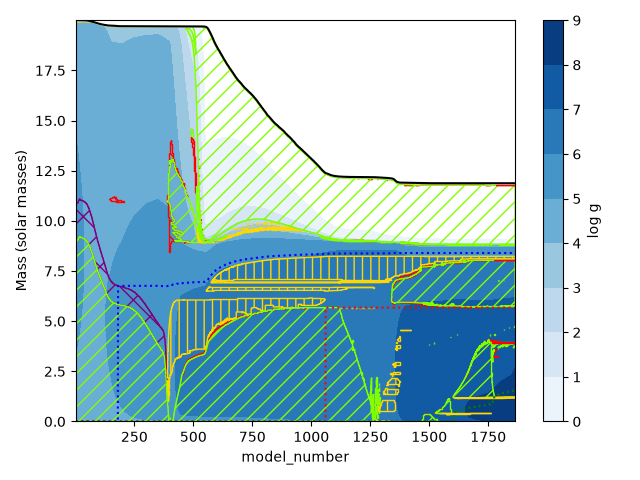
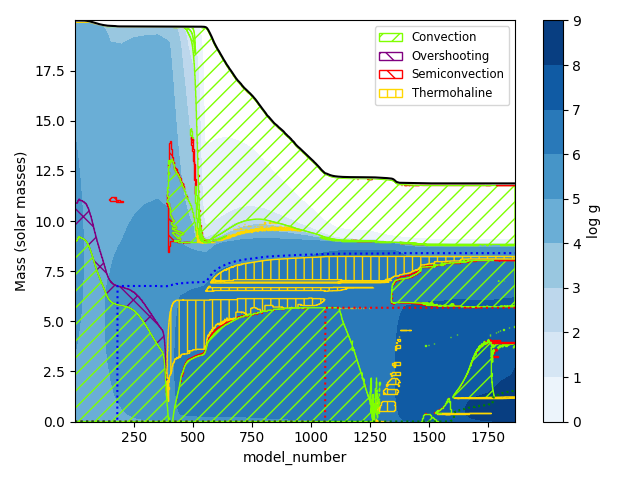
this seems to work

diff --git a/mkipp2/example.py b/mkipp2/example.py
@@ -10,7 +10,8 @@ from matplotlib.patches import PathPatch
 mkipp.kipp_plot(mkipp.KippArgs())
 
 # specify xrange and filename
-mkipp.kipp_plot(mkipp.KippArgs(save_filename="Kippenhahn2.png", xlims=[300, 600]))
+mkipp.kipp_plot(mkipp.KippArgs(xlims=[300, 600]),
+                save_filename="Kippenhahn2.png")
 
 # plot of Helium abundance against time, independent decoration
 fig, axis = plt.subplots()
@@ -25,9 +26,8 @@ kipp_plot = mkipp.kipp_plot(mkipp.KippArgs(xaxis="star_age",
                                            time_units="Myr",
                                            identifier="y",
                                            log10_on_data=False,
-                                           levels=np.arange(0.0, 1.001, 0.01),
-                                           decorate_plot=False,
-                                           save_file=False), axis=axis)
+                                           levels=np.arange(0.0, 1.001, 0.01)),
+                            axis=axis, decorate_plot=False, save_file=False)
 cbar = plt.colorbar(kipp_plot.contour_plot, pad=0.05)
 cbar.set_label("Helium abundance")
 axis.set_xlabel("Time (Myr)")
@@ -44,9 +44,8 @@ history = mesa_data.MesaData("LOGS/history.data", read_data_cols=["star_age"])
 max_age = max(history.get("star_age"))
 kipp_plot = mkipp.kipp_plot(mkipp.KippArgs(xaxis="star_age",
                                            time_units="yr",
-                                           function_on_xaxis=lambda x: np.log10(max_age+0.01 - x),
-                                           decorate_plot=False,
-                                           save_file=False), axis=axis)
+                                           function_on_xaxis=lambda x: np.log10(max_age+0.01 - x)),
+                            decorate_plot=False, save_file=False, axis=axis)
 cbar = plt.colorbar(kipp_plot.contour_plot,pad=0.05)
 cbar.set_label("log |eps_nuc|")
 axis.set_xlabel("log (tf-t) [yrs]")
@@ -67,9 +66,8 @@ def g_extractor(identifier, log10_on_data, prof, return_data_columns=False):
         return np.log10(data)
     return data
 
-kipp_plot = mkipp.kipp_plot(mkipp.KippArgs(extractor=g_extractor,
-                                           decorate_plot=False,
-                                           save_file=False), axis=axis)
+kipp_plot = mkipp.kipp_plot(mkipp.KippArgs(extractor=g_extractor),
+                            decorate_plot=False, save_file=False, axis=axis)
 cbar = plt.colorbar(kipp_plot.contour_plot, pad=0.05)
 cbar.set_label("log g")
 axis.set_xlabel("model_number")
@@ -135,17 +133,17 @@ fig.tight_layout()
 fig.savefig("Kippenhahn6.png")
 
 # create a multi-panel plot
-fig = plt.figure()
-spec = fig.add_gridspec(ncols=4, nrows=1, wspace=0.2, width_ratios=[5, 5, 5, 1])
+fig = plt.figure(figsize=(8, 5), layout="constrained")
+spec = fig.add_gridspec(ncols=4, nrows=1, wspace=0.05, width_ratios=[5, 5, 5, 1])
 ax1 = fig.add_subplot(spec[0, 0])
 ax2 = fig.add_subplot(spec[0, 1])
 ax3 = fig.add_subplot(spec[0, 2])
 ax4 = fig.add_subplot(spec[0, 3])
 
-kipp_args = mkipp.KippArgs(save_file=False, xaxis="star_age", decorate_plot=False)
-mkipp.kipp_plot(kipp_args, axis=ax1)
-mkipp.kipp_plot(kipp_args, axis=ax2)
-kipp_plot = mkipp.kipp_plot(kipp_args, axis=ax3)
+kipp_args = mkipp.KippArgs(xaxis="star_age")
+mkipp.kipp_plot(kipp_args, axis=ax1, save_file=False, decorate_plot=False)
+mkipp.kipp_plot(kipp_args, axis=ax2, save_file=False, decorate_plot=False, show_mixing_legend=False)
+kipp_plot = mkipp.kipp_plot(kipp_args, axis=ax3, save_file=False, decorate_plot=False, show_mixing_legend=False)
 cbar = fig.colorbar(kipp_plot.contour_plot, cax=ax4)
 #cbar.ax.set_yticklabels(['0', '','2','','4','','6','','8',''])
 cbar.set_label(r"$\log_{10}|\epsilon_{\rm nuc}|$")

diff --git a/mkipp2/mkipp.py b/mkipp2/mkipp.py
@@ -404,13 +404,13 @@ def kipp_plot(kipp_args, *,
             line  = 1
         # Thermohaline mixing
         elif mixing_zones.mix_types[i] == 5 and kipp_args.show_therm:
-            label = "Thermohaline mixing"
+            label = "Thermohaline"
             color = "Gold" #Salmon
             hatch = "||"
             line  = 1
         # Rotational mixing
         elif mixing_zones.mix_types[i] == 6 and kipp_args.show_rot:
-            label = "Rotational mixing"
+            label = "Rotational"
             color = "brown"
             hatch = "*"
             line  = 1
@@ -464,7 +464,7 @@ def kipp_plot(kipp_args, *,
         if mixing_handles:
             axis.legend(handles=[mixing_handles[key]
                                  for key in sorted(mixing_handles)],
-                        loc="best")
+                        loc="best", fontsize="small")
 
     if decorate_plot:
 

diff --git a/README.md b/README.md
@@ -27,8 +27,8 @@ data for a 20 Msun star, which if used with the following python
 script
 
 ```python
-import mkipp
-mkipp.kipp_plot(mkipp.KippArgs())
+import mkipp2
+mkipp2.kipp_plot(mkipp2.KippArgs())
 ```
 results in the following plot
 ![kipp](images/Kippenhahn.png)
@@ -39,14 +39,15 @@ profile data it reads. To save a pdf just change the filename
 extension.
 
 ```python
-import mkipp
-mkipp.kipp_plot(mkipp.KippArgs(save_filename="Kippenhahn2.png", xlims=[300,600]))
+import mkipp2
+mkipp2.kipp_plot(mkipp2.KippArgs(xlims=[300,600]),
+                 save_filename="Kippenhahn2.png")
 ```
 
 which results in the following plot
 ![kipp](images/Kippenhahn2.png)
 
-Several options can be passed to `mkipp.KippArgs()` --- see the docstring
+Several options can be passed to `mkipp2.KippArgs()` --- see the docstring
 for details.
 
 Also a matplotlib `Axis` object can be passed to `kipp_plot`. This allows
@@ -56,24 +57,23 @@ following plots evolution of Helium abundance with respect to time for
 the same model as before
 
 ```python
-import mkipp
+import mkipp2
 import matplotlib.pyplot as plt
 import numpy as np
 # plot of Helium abundance against time, independent decoration
 fig, axis = plt.subplots()
-# mkipp.kipp_plot returns an object containing
+# mkipp2.kipp_plot returns an object containing
 #   kipp_plot.contour_plot : the return value of matplotlibs contourf. Can be
 #                            used to create a colorbar with plt.colorbar()
 #   kipp_plot.histories    : list of history files read. data can be accesed from this
 #                            using the get("column_name") function
 #   kipp_plot.xlims        : limits of data in x coordinate
-kipp_plot = mkipp.kipp_plot(mkipp.KippArgs(xaxis="star_age",
-                                           time_units="Myr",
-                                           identifier="y",
-                                           log10_on_data=False,
-                                           levels=np.arange(0.0, 1.001, 0.01),
-                                           decorate_plot=False,
-                                           save_file=False), axis=axis)
+kipp_plot = mkipp2.kipp_plot(mkipp2.KippArgs(xaxis="star_age",
+                                             time_units="Myr",
+                                             identifier="y",
+                                             log10_on_data=False,
+                                             levels=np.arange(0.0, 1.001, 0.01)),
+                             decorate_plot=False, save_file=False, axis=axis)
 cbar = plt.colorbar(kipp_plot.contour_plot,pad=0.05)
 cbar.set_label("Helium abundance")
 axis.set_xlabel("Time (Myr)")
@@ -90,7 +90,7 @@ to generate a log(tf-t) plot. Here we also make use of the mesa_data
 class to read out the maximum age first.
 
 ```python
-import mkipp
+import mkipp2
 import matplotlib.pyplot as plt
 import numpy as np
 import mesa_data
@@ -99,11 +99,10 @@ fig, axis = plt.subplots()
 # only need to read star_age column first
 history = mesa_data.MesaData("LOGS/history.data", read_data_cols=["star_age"])
 max_age = max(history.get("star_age"))
-kipp_plot = mkipp.kipp_plot(mkipp.KippArgs(xaxis="star_age",
-                                           time_units="yr",
-                                           function_on_xaxis=lambda x: np.log10(max_age+0.01 - x),
-                                           decorate_plot=False,
-                                           save_file=False), axis=axis)
+kipp_plot = mkipp2.kipp_plot(mkipp2.KippArgs(xaxis="star_age",
+                                             time_units="yr",
+                                             function_on_xaxis=lambda x: np.log10(max_age+0.01 - x)),
+                             decorate_plot=False, save_file=False, axis=axis)
 cbar = plt.colorbar(kipp_plot.contour_plot,pad=0.05)
 cbar.set_label("log |eps_nuc|")
 axis.set_xlabel("log (tf-t) [yrs]")
@@ -120,7 +119,7 @@ extra columns, to extract the required data you can just pass a
 function that computes it. In this case, I make a plot of log g.
 
 ```python
-import mkipp
+import mkipp2
 import matplotlib.pyplot as plt
 import numpy as np
 #add custom extractor to compute g
@@ -135,9 +134,8 @@ def g_extractor(identifier, log10_on_data, prof, return_data_columns=False):
     if log10_on_data:
         return np.log10(data)
     return data
-kipp_plot = mkipp.kipp_plot(mkipp.KippArgs(extractor=g_extractor,
-                                           decorate_plot=False,
-                                           save_file=False), axis=axis)
+kipp_plot = mkipp2.kipp_plot(mkipp2.KippArgs(extractor=g_extractor),
+                             decorate_plot=False, save_file=False, axis=axis)
 bar = plt.colorbar(kipp_plot.contour_plot,pad=0.05)
 bar.set_label("log g")
 axis.set_xlabel("model_number")
@@ -152,14 +150,14 @@ level functions and plotted in an arbitrary form. The following is an
 (ugly) example:
 
 ```python
-import mkipp
+import mkipp2
 import kipp_data
 import mesa_data
 import matplotlib.pyplot as plt
 from matplotlib.patches import PathPatch
 import numpy as np
 # Reading out mixing regions and data, and plotting independently
-kipp_args = mkipp.KippArgs()
+kipp_args = mkipp2.KippArgs()
 fig, ax = plt.subplots()
 profile_paths = mesa_data.get_profile_paths(["LOGS"])
 # if data is distributed among several history.data files, you can provide them
@@ -215,7 +213,7 @@ different evolutionary stages. This can be achieved by creating a
 single `KippArgs` object and calling `kipp_plot` on various subaxes
 
 ```python
-import mkipp
+import mkipp2
 import kipp_data
 import mesa_data
 import matplotlib.pyplot as plt
@@ -227,10 +225,13 @@ ax2 = fig.add_subplot(spec[0, 1])
 ax3 = fig.add_subplot(spec[0, 2])
 ax4 = fig.add_subplot(spec[0, 3])
 
-kipp_args = mkipp.KippArgs(save_file=False, xaxis="star_age", decorate_plot=False)
-mkipp.kipp_plot(kipp_args, axis=ax1)
-mkipp.kipp_plot(kipp_args, axis=ax2)
-kipp_plot = mkipp.kipp_plot(kipp_args, axis=ax3)
+kipp_args = mkipp2.KippArgs(xaxis="star_age")
+mkipp2.kipp_plot(kipp_args, axis=ax1,
+                 save_file=False, decorate_plot=False)
+mkipp2.kipp_plot(kipp_args, axis=ax2,
+                 save_file=False, decorate_plot=False, show_mixing_legend=False)
+kipp_plot = mkipp2.kipp_plot(kipp_args, axis=ax3,
+                             save_file=False, decorate_plot=False, show_mixing_legend=False)
 cbar = fig.colorbar(kipp_plot.contour_plot, cax=ax4)
 cbar.set_label(r"$\log_{10}|\epsilon_{\rm nuc}|$")
 
